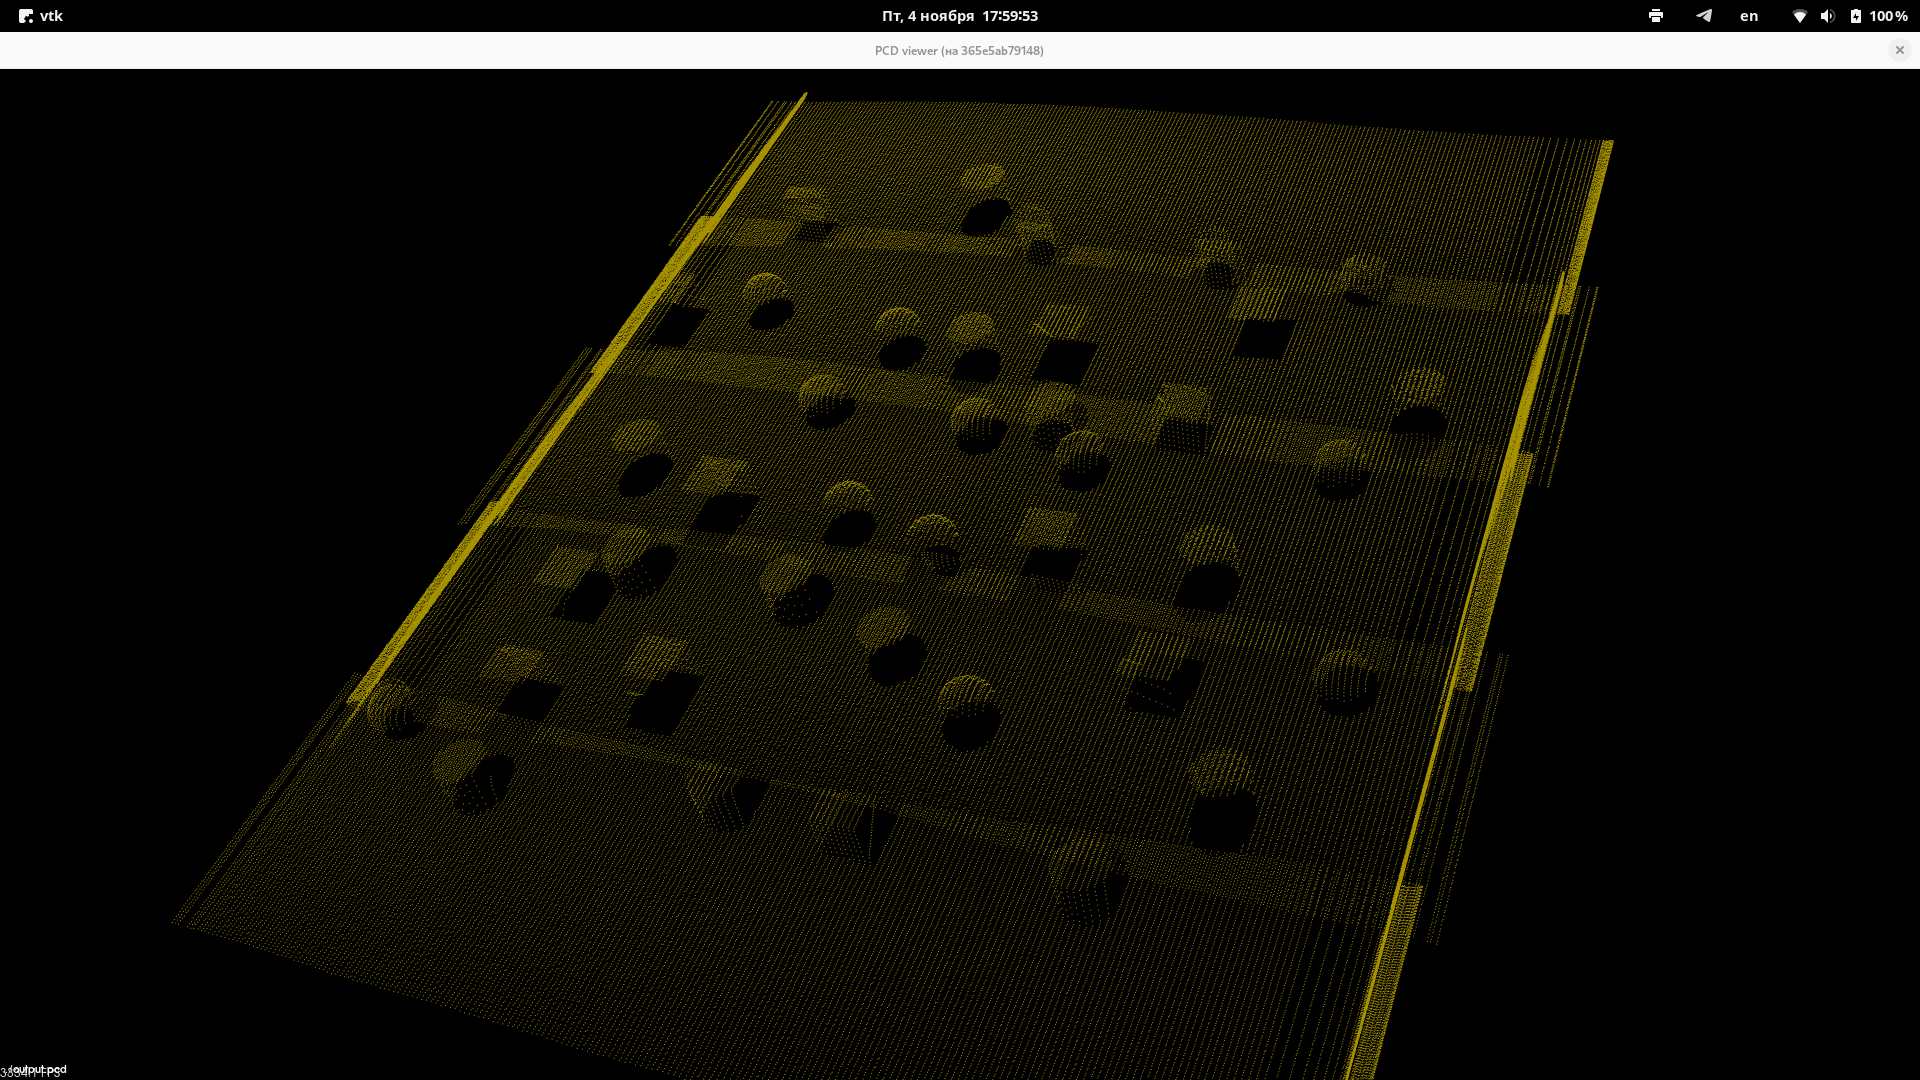
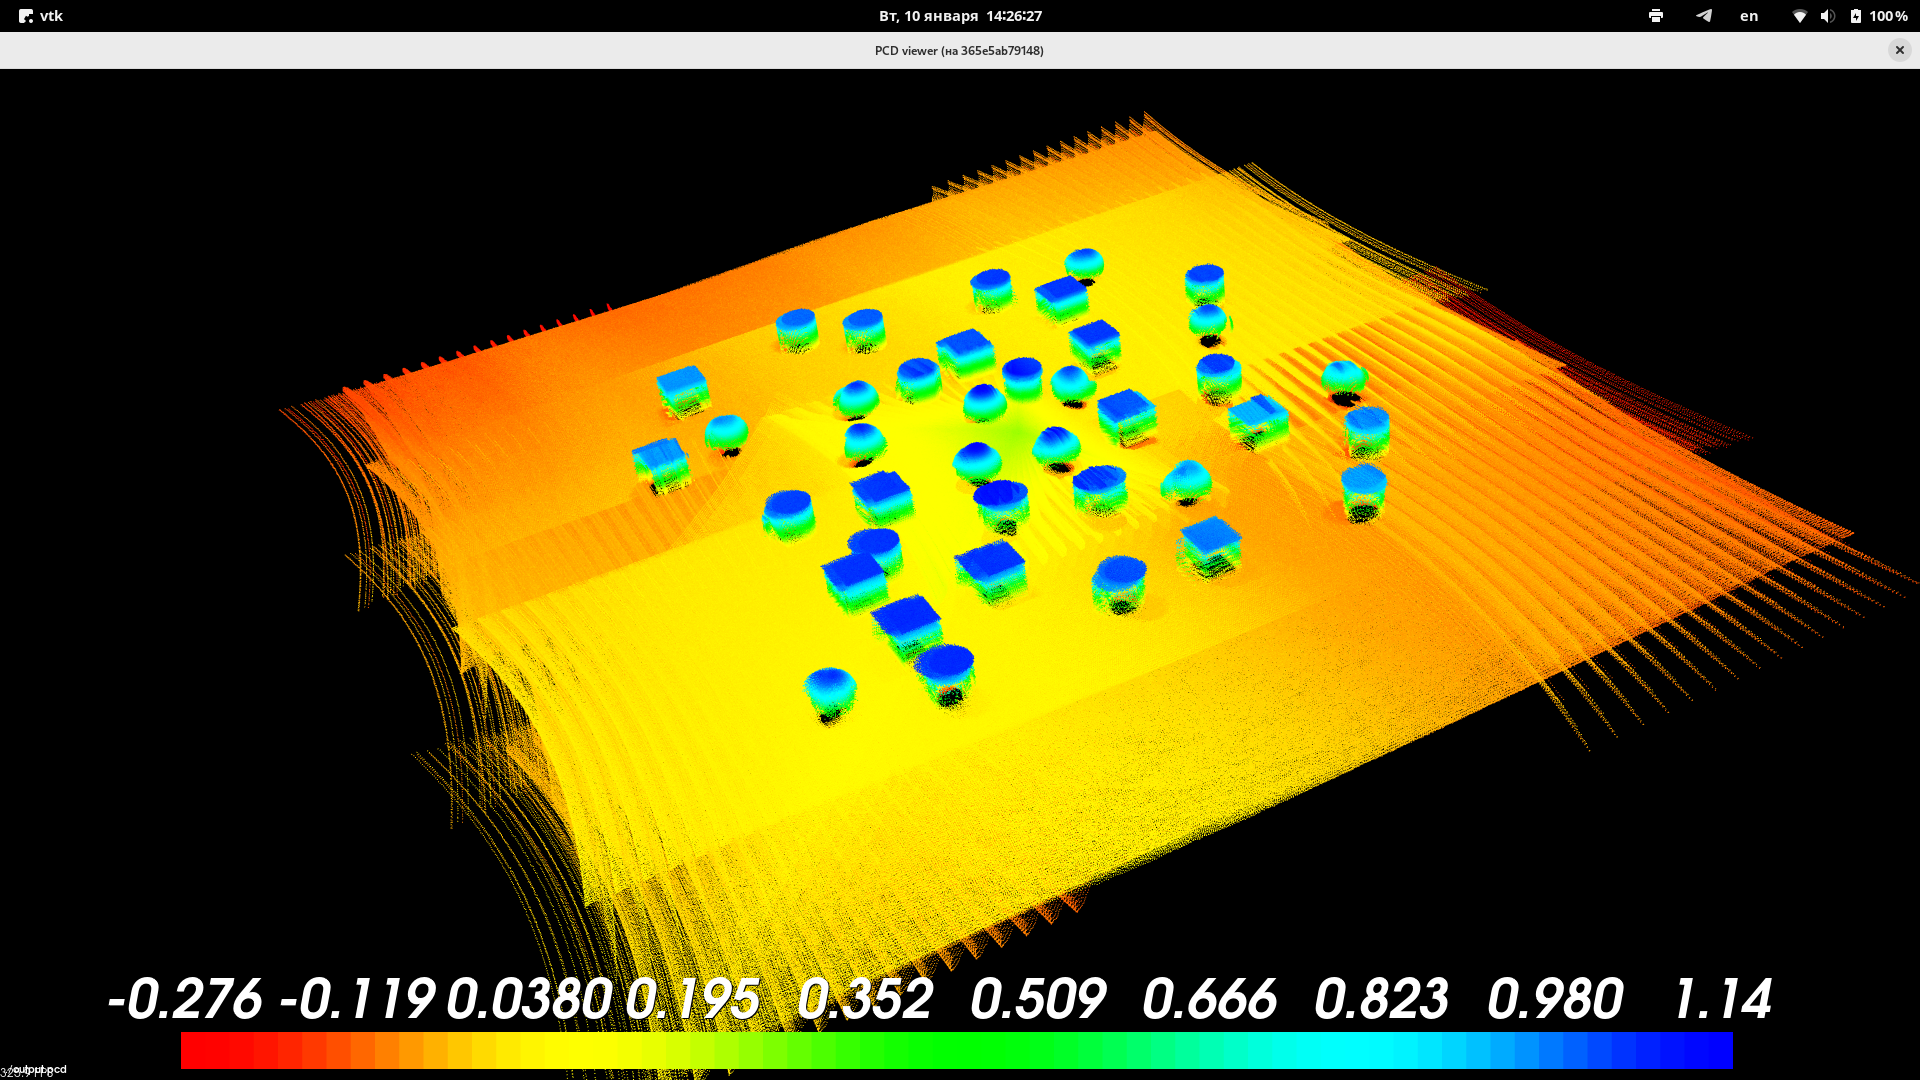
Lots of lidar fixes. Workable

diff --git a/lars_gazebo_dem_ws/src/lars_gazebo_dem/src/pc2_change_frame.py b/lars_gazebo_dem_ws/src/lars_gazebo_dem/src/pc2_change_frame.py
@@ -1,0 +1,27 @@
+#!/usr/bin/env python3
+
+import rospy
+from sensor_msgs.msg import PointCloud2
+from tf2_sensor_msgs.tf2_sensor_msgs import do_transform_cloud
+import tf2_ros
+
+rospy.init_node('pc2_change_frame')
+pc2_pub = rospy.Publisher('laser_pc2', PointCloud2, queue_size=1)
+tf_buffer = tf2_ros.Buffer()
+tf_listener = tf2_ros.TransformListener(tf_buffer)
+
+
+def scan_cb(msg):
+    try:
+        # transform and publish it
+        transform = tf_buffer.lookup_transform('map', msg.header.frame_id, msg.header.stamp, rospy.Duration(0.5))
+        msg = do_transform_cloud(msg, transform)
+        pc2_pub.publish(msg)
+    #except (tf2_ros.ExtrapolationException, tf2_ros.ConnectivityException) as e:
+    #    rospy.logwarn(f'Problems with lidar data transformation: {e}')
+    except:
+        pass
+
+
+rospy.Subscriber('laser_pc2_raw', PointCloud2, scan_cb, queue_size=1)
+rospy.spin()

diff --git a/README.md b/README.md
@@ -23,7 +23,7 @@
     git clone --recurse-submodules --branch v1.13.1 https://github.com/PX4/PX4-Autopilot.git
     ```
 
-    Добавьте модель, запустив `<PATH_TO_THIS_REP>/2px4/setup.sh <PATH_TO_PX4>`. Этот скрипт внесет все необходимые изменения в PX4-Autopilot.
+    Добавьте модель, запустив `<PATH_TO_THIS_REP>/setup/setup.sh <PATH_TO_PX4>`. Этот скрипт внесет все необходимые изменения в PX4-Autopilot.
 * Соберите пакет __lars_gazebo_dem__
     ```bash
     cd <PATH_TO_THIS_REP>/lars_gazebo_dem_ws
@@ -51,7 +51,7 @@
 cd <PX4-Autopilot_clone>
 DONT_RUN=1 make px4_sitl_default gazebo
 source ~/catkin_ws/devel/setup.bash    # (optional)
-source <PATH_TO_THIS_REP>/lars_gazebo_dem_ws/devel/setup.bash # LaserScan -> PointCloud2
+source <PATH_TO_THIS_REP>/lars_gazebo_dem_ws/devel/setup.bash # Изменение фрейма данных с лидара
 source Tools/setup_gazebo.bash $(pwd) $(pwd)/build/px4_sitl_default && \
 export ROS_PACKAGE_PATH=$ROS_PACKAGE_PATH:$(pwd) && \
 export ROS_PACKAGE_PATH=$ROS_PACKAGE_PATH:$(pwd)/Tools/sitl_gazebo
@@ -64,8 +64,12 @@ roslaunch px4 MAP_N55E106.launch
 Если необходимо запустить дрон в пустом мире, воспользуйтесь командой:
 ```bash
 roslaunch px4 mavros_posix_sitl.launch vehicle:=iris_lidar_lars_dem
-# Запустите в отдельном терминале для возможности просматривать данные с лидара
-tf2_ros static_transform_publisher 0 0 -0.045 0 1.5707 0 base_link laser_frame
+# Для возможности просматривать данные с лидара
+# Запустите в отдельном терминале
+rosrun tf2_ros static_transform_publisher 0 0 -0.045 0 1.5707 0 base_link laser_frame
+# Запустите в отдельном терминале
+source <PATH_TO_THIS_REP>/lars_gazebo_dem_ws/devel/setup.bash
+rosrun lars_gazebo_dem pc2_change_frame.py
 ```
 
 ## Данные с дрона
@@ -88,6 +92,7 @@ rosrun pcl_ros pointcloud_to_pcd input:=/laser_pc2
 pcl_concatenate_points_pcd *.pcd
 # Посмотреть результат
 pcl_viewer ./output.pcd
+# 0-9 - изменить цветовую идентификацию точек
 ```
 
 
